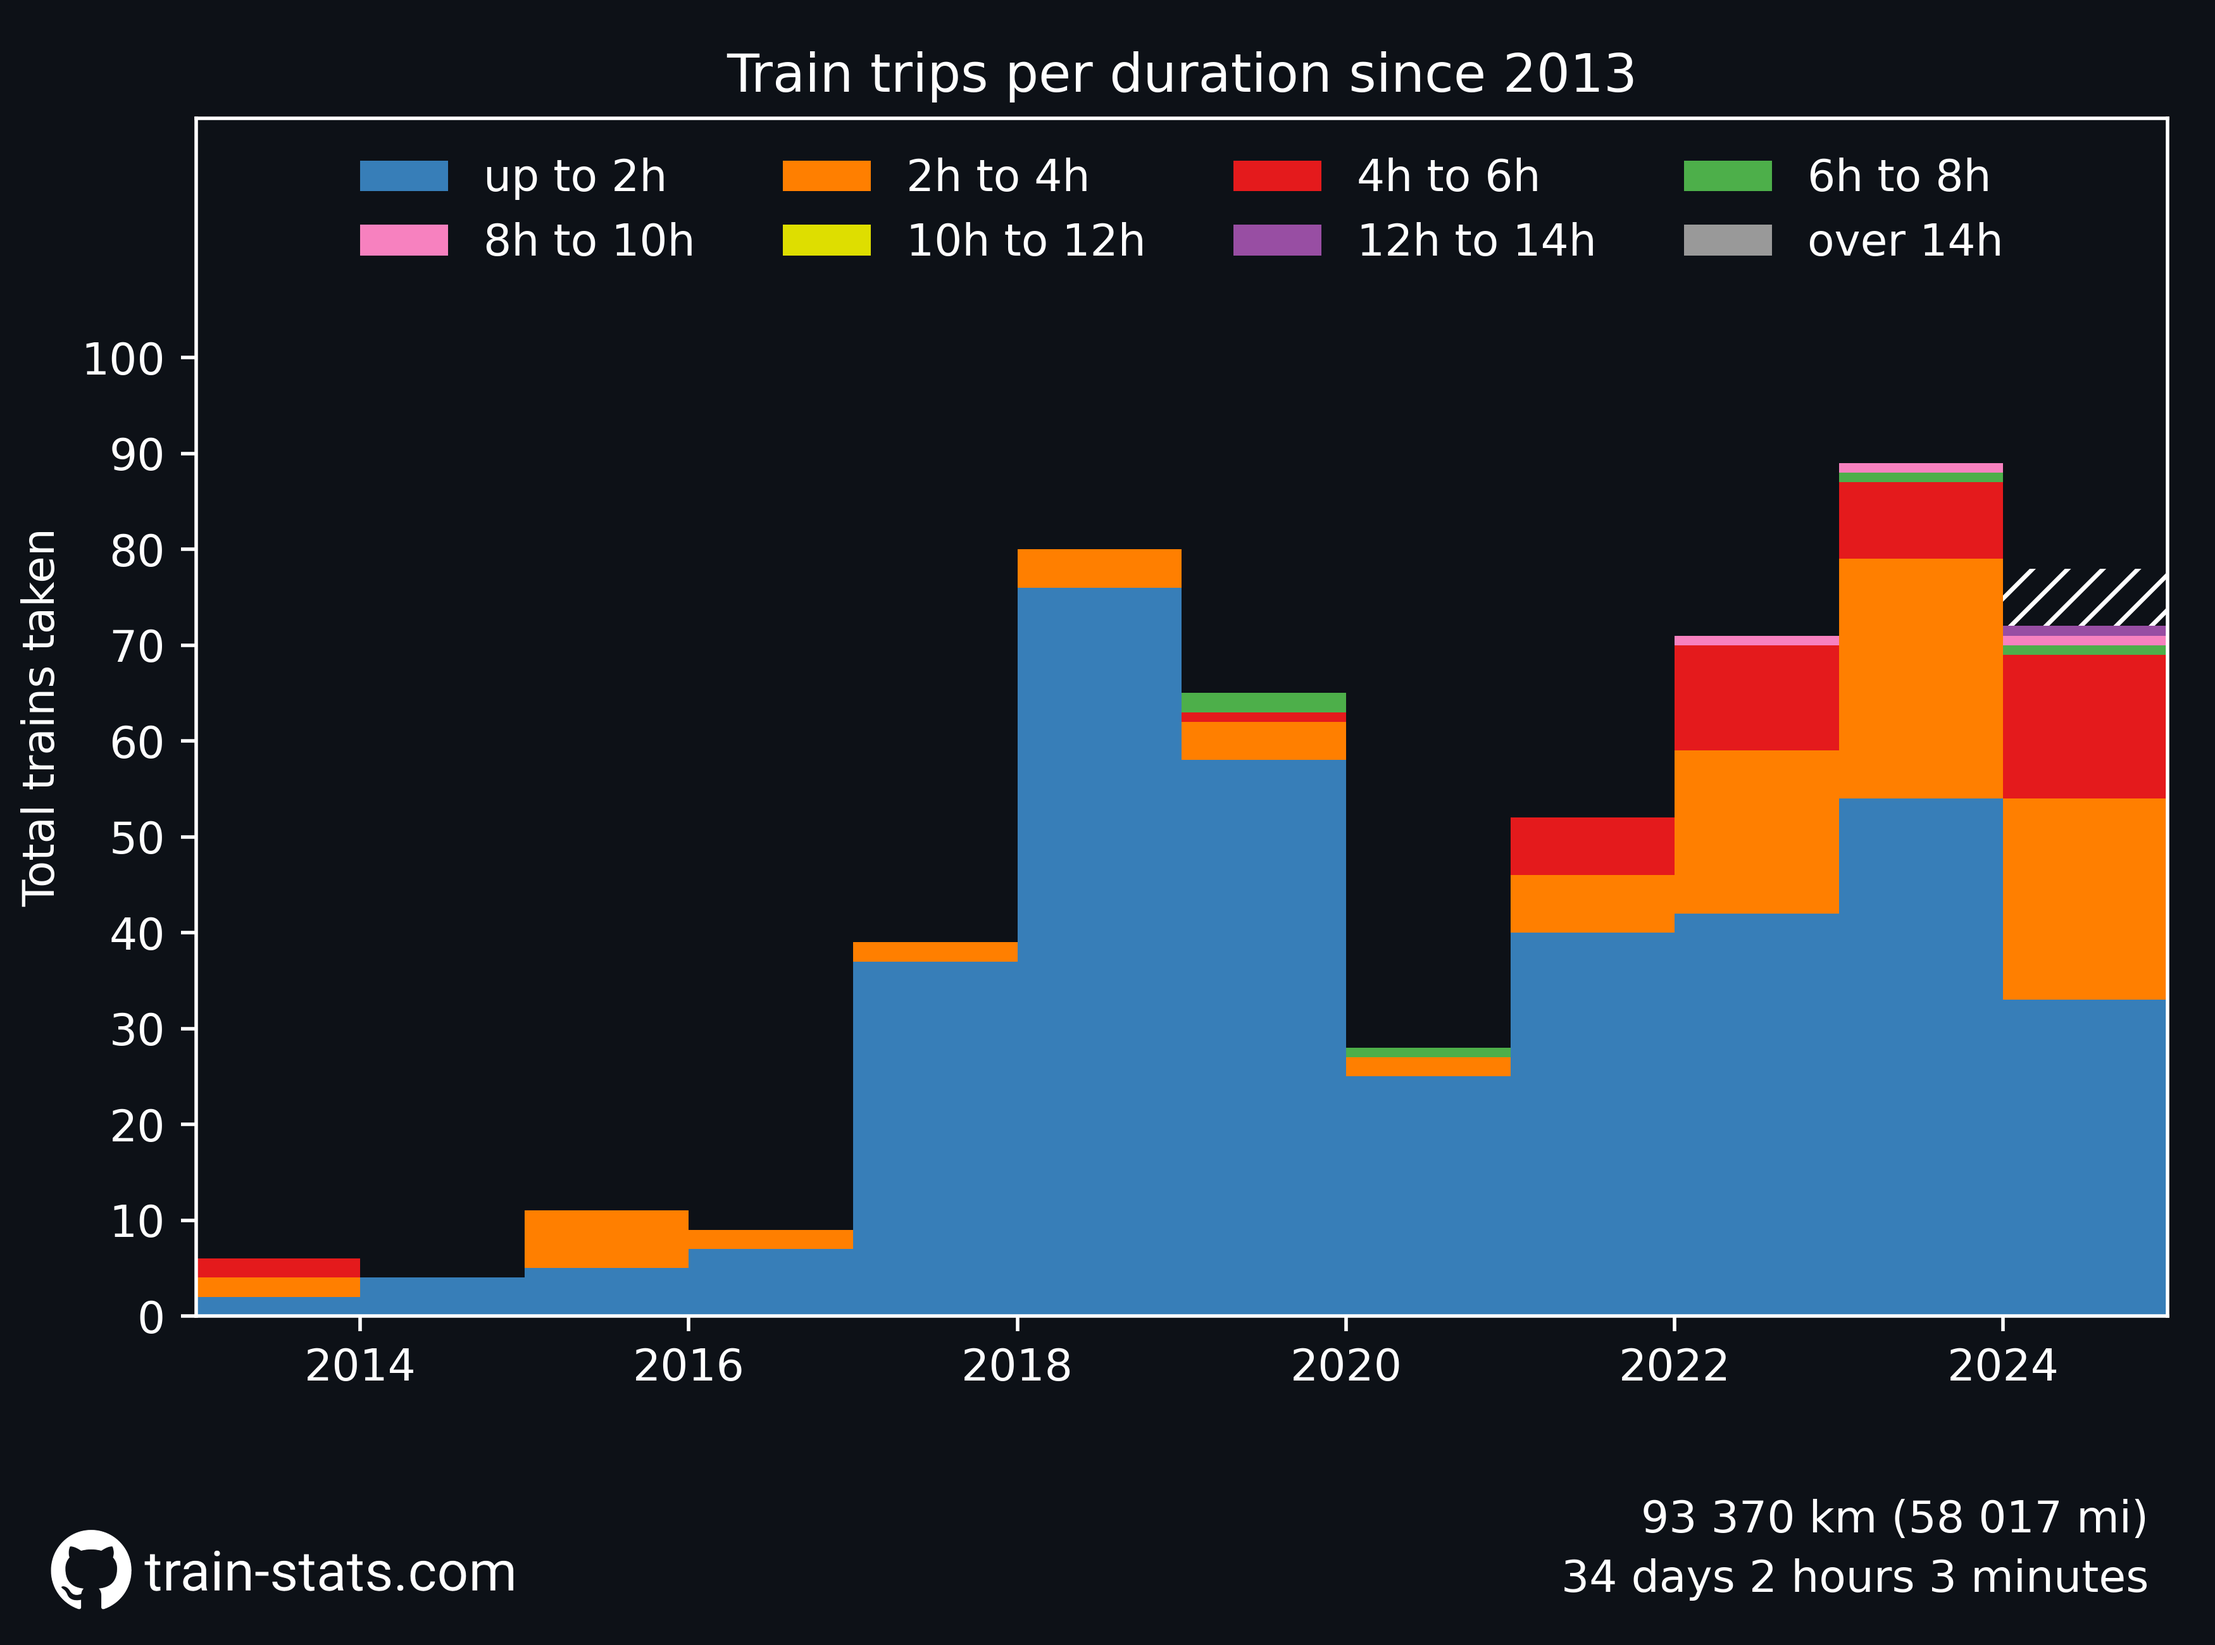
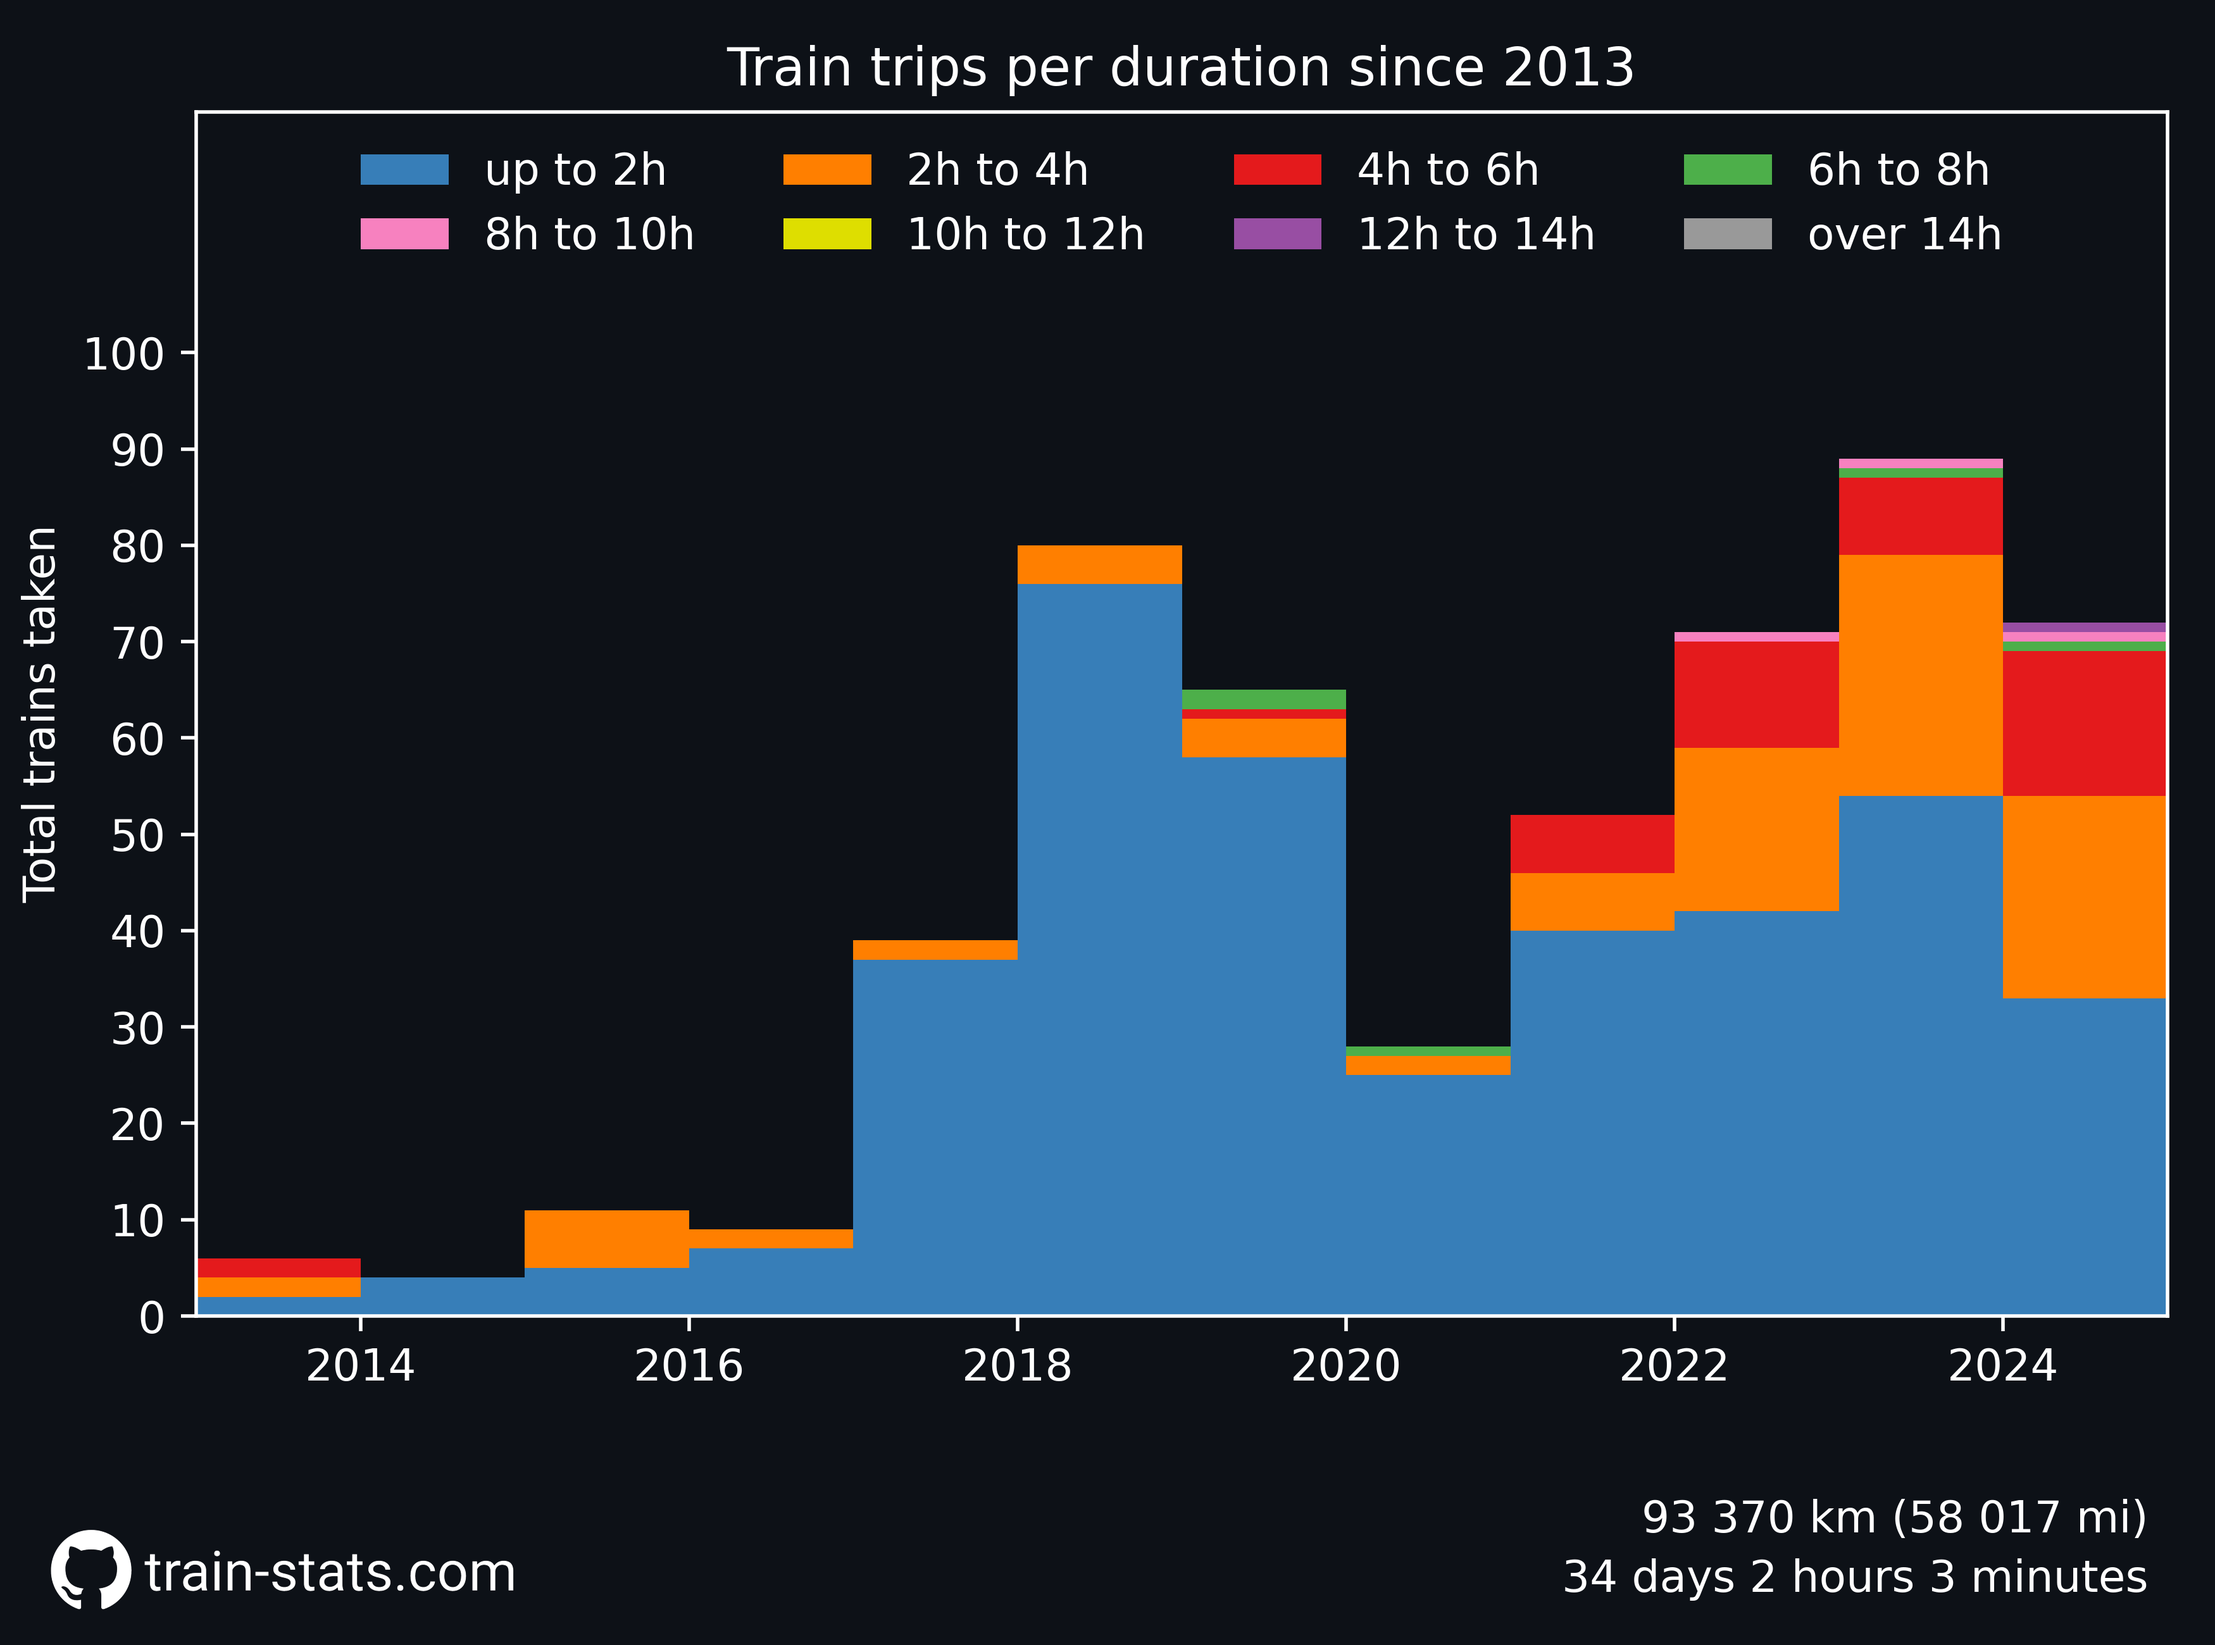
fix a plot that wrongly dealt with future trips in a year not yet present in past trips

diff --git a/src/plotsCodes/number_per_duration_stacked.py b/src/plotsCodes/number_per_duration_stacked.py
@@ -1,5 +1,13 @@
-from utils import dark_figure, extract_trips_journeys, PARIS_TZ, COLORS, prepare_legend, finish_figure, compute_stats, \
-    GITHUB_DARK
+from utils import (
+    dark_figure,
+    extract_trips_journeys,
+    PARIS_TZ,
+    COLORS,
+    prepare_legend,
+    finish_figure,
+    compute_stats,
+    GITHUB_DARK,
+)
 import numpy as np
 from datetime import datetime, timedelta
 import matplotlib.pyplot as plt
@@ -20,9 +28,13 @@ TIERS = [
 # Plot of km travelled by train journey duration
 def plot_number_per_duration_stacked(trips):
     past_trips, _ = extract_trips_journeys(trips, filter_end=datetime.now(tz=PARIS_TZ))
-    future_trips, _ = extract_trips_journeys(trips, filter_start=datetime.now(tz=PARIS_TZ),
-                                                           filter_end=datetime(datetime.now(tz=PARIS_TZ).year + 1, 1, 1,
-                                                                               0, 0, 0, tzinfo=PARIS_TZ))
+    future_trips, _ = extract_trips_journeys(
+        trips,
+        filter_start=datetime.now(tz=PARIS_TZ),
+        filter_end=datetime(
+            datetime.now(tz=PARIS_TZ).year + 1, 1, 1, 0, 0, 0, tzinfo=PARIS_TZ
+        ),
+    )
 
     fig, ax = dark_figure()
     years = past_trips["Departure (Local)"].dt.year.unique().tolist()
@@ -31,11 +43,16 @@ def plot_number_per_duration_stacked(trips):
         min_duration = timedelta(hours=tier[0])
         max_duration = timedelta(hours=tier[1])
         data.append(
-            past_trips[past_trips["Duration"].between(min_duration, max_duration, inclusive="left")][
-                "Departure (Local)"
-            ].dt.year.values.tolist()
+            past_trips[
+                past_trips["Duration"].between(
+                    min_duration, max_duration, inclusive="left"
+                )
+            ]["Departure (Local)"].dt.year.values.tolist()
         )
-    data.append(future_trips["Departure (Local)"].dt.year.values.tolist())
+    future_trips_mask = future_trips["Departure (Local)"].dt.year.isin(years)
+    data.append(
+        future_trips[future_trips_mask]["Departure (Local)"].dt.year.values.tolist()
+    )
     _, _, bar_containers = ax[0].hist(
         data,
         bins=np.append(np.unique(years), max(years) + 1),
@@ -44,11 +61,12 @@ def plot_number_per_duration_stacked(trips):
         label=[tier[2] for tier in TIERS],
         color=COLORS + [GITHUB_DARK],
     )
-    for p in bar_containers[-1].patches:
-        p.set_label(None)
-        p.set_hatch("///")
-        p.set_linewidth(0)
-        p.set_edgecolor("white")
+    if future_trips_mask.sum() > 0:
+        for p in bar_containers[-1].patches:
+            p.set_label(None)
+            p.set_hatch("///")
+            p.set_linewidth(0)
+            p.set_edgecolor("white")
     handles, labels = prepare_legend(reverse=False)
     ax[0].legend(
         handles, labels, loc="upper center", ncol=4, frameon=False, labelcolor="white"
@@ -63,7 +81,11 @@ def plot_number_per_duration_stacked(trips):
     # Stats
     distance_str, duration_str = compute_stats(past_trips, timezone=PARIS_TZ)
     fig_axes = fig.add_axes([0.97, 0.027, 0.3, 0.3], anchor="SE", zorder=1)
-    fig_axes.text(0, 0.12, distance_str, ha="right", va="bottom", color="white", fontsize=10)
-    fig_axes.text(0, 0, duration_str, ha="right", va="bottom", color="white", fontsize=10)
+    fig_axes.text(
+        0, 0.12, distance_str, ha="right", va="bottom", color="white", fontsize=10
+    )
+    fig_axes.text(
+        0, 0, duration_str, ha="right", va="bottom", color="white", fontsize=10
+    )
     fig_axes.axis("off")
     finish_figure(fig, ax, "number_per_duration_stacked", show=False)
